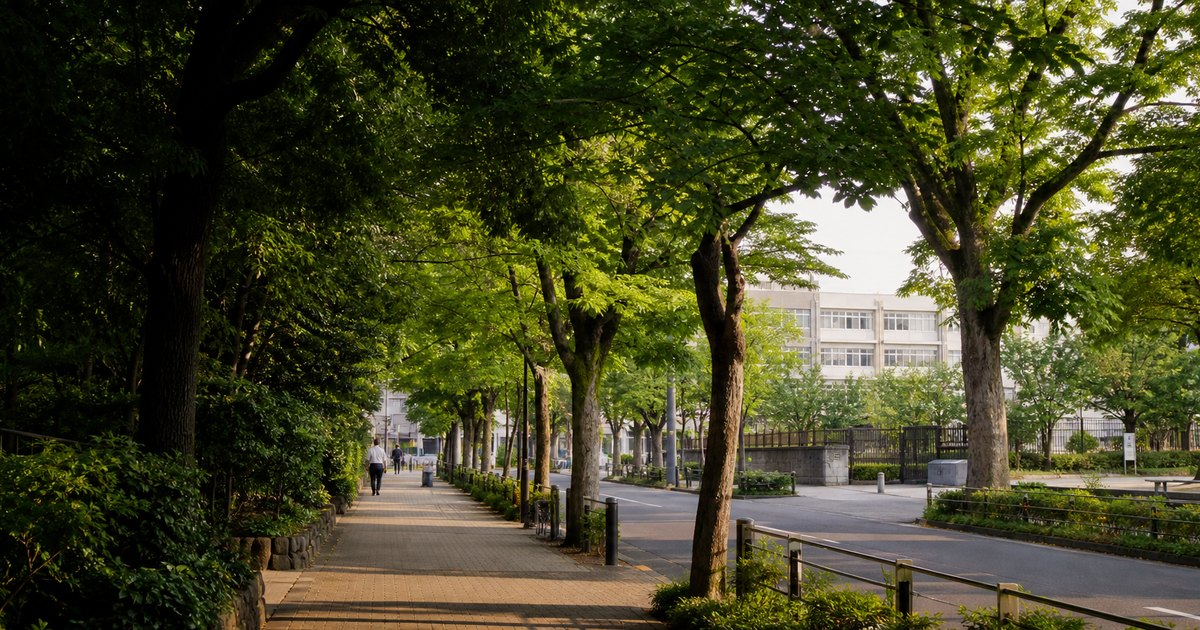
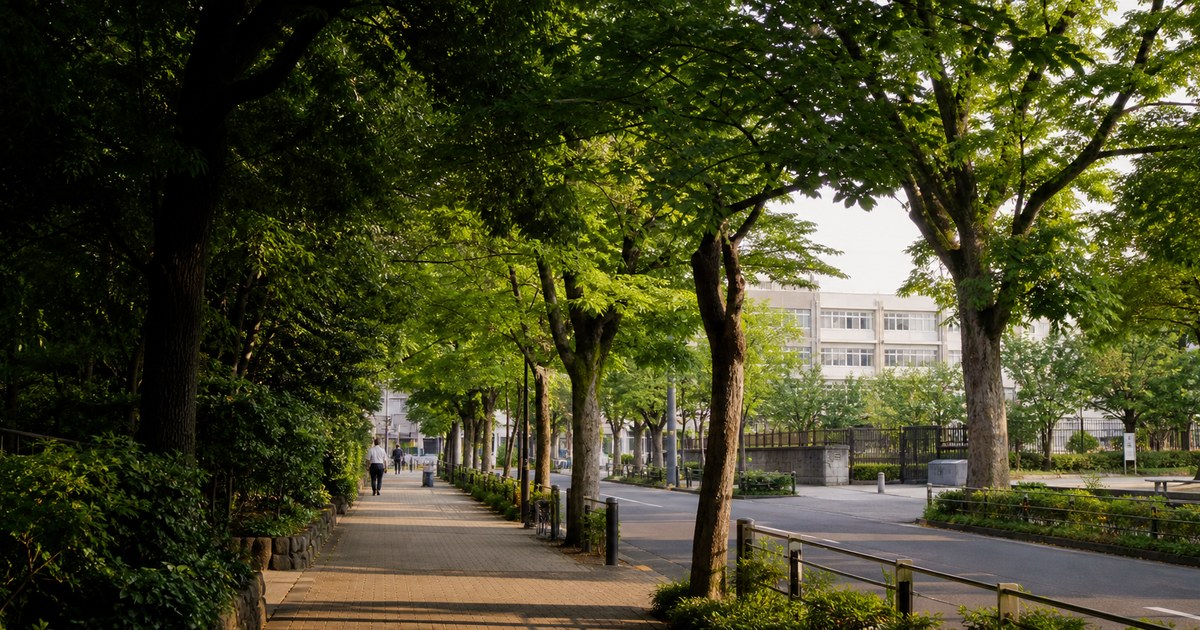
note2: HTMLize scale figure, fix per-tree canopy assumption, enlarge calc text, refresh OGP
- fig2_scale.png をレスポンシブHTMLに置換(item1: 文字拡大)
- 1本あたり樹冠100㎡は大径木専用値と判明→新規植栽には不適。第3回と整合する現実値(50〜100㎡、若木10〜30㎡)で本数を約3万本〜と訂正し、費用便益上の指摘(面積ベースでは26ha B/Cは不変だが本数×単価での費用検算が必要)を追記(item2)
- .calc/.fline のフォントを15px前後に拡大(item3)
- OGPカード画像を樹冠アーチが入る全高クロップで再生成(item4)

diff --git a/suginami-canopy-2/index.html b/suginami-canopy-2/index.html
@@ -88,9 +88,9 @@
   .mk{display:inline-block; width:1.5em; text-align:center; font-weight:700;}
   .mk-in{color:#2e7d4f;} .mk-part{color:#5676aa;} .mk-kpi{color:#8a8f8b;} .mk-ex{color:#be4834;}
   @media (max-width:600px){ .scope .cols{grid-template-columns:1fr;} }
-  .calc{background:#f4f7fb; border:1px solid #d8e2ef; border-left:4px solid #5676aa; border-radius:8px; padding:10px 14px; margin:.8em 0; font-size:13.5px; color:#2a3b55;}
+  .calc{background:#f4f7fb; border:1px solid #d8e2ef; border-left:4px solid #5676aa; border-radius:8px; padding:12px 16px; margin:.9em 0; font-size:15px; color:#2a3b55; line-height:1.8;}
   .calc b{color:#1f3a63;}
-  .calc .f{font-family:"SFMono-Regular",Consolas,"Courier New",monospace; background:#fff; border:1px solid #dbe3ee; border-radius:6px; padding:2px 7px; display:inline-block; margin:2px 0; font-size:13px; color:#143; white-space:nowrap;}
+  .calc .f{font-family:"SFMono-Regular",Consolas,"Courier New",monospace; background:#fff; border:1px solid #dbe3ee; border-radius:6px; padding:2px 7px; display:inline-block; margin:2px 0; font-size:14px; color:#143; white-space:nowrap;}
   .prem{border:1px solid var(--line); border-radius:12px; background:#fafbfa; padding:16px 18px; margin:1.3em 0;}
   .prem .ptitle{font-weight:700; color:var(--green-d); font-size:17px; margin:0 0 .2em;}
   .prem .psub{color:var(--sub); font-size:13px; margin:0 0 .9em;}
@@ -127,7 +127,25 @@
   .cba .sum{margin-top:13px; background:#eef4f0; border:1px solid #cfe3d6; border-radius:10px; padding:12px 15px; font-size:14.5px; color:#214; line-height:1.7; text-align:center;}
   @media (max-width:600px){ .cba .steps{grid-template-columns:1fr; gap:9px;} }
   /* 計算式を1行で独立表示（重なり防止） */
-  .fline{display:block; font-family:"SFMono-Regular",Consolas,"Courier New",monospace; background:#fff; border:1px solid #dbe3ee; border-radius:6px; padding:7px 11px; margin:.5em 0 0; font-size:13.5px; color:#143; line-height:1.5; overflow-x:auto; white-space:nowrap;}
+  .fline{display:block; font-family:"SFMono-Regular",Consolas,"Courier New",monospace; background:#fff; border:1px solid #dbe3ee; border-radius:6px; padding:8px 12px; margin:.5em 0; font-size:14.5px; color:#143; line-height:1.6; overflow-x:auto; white-space:nowrap;}
+  /* 規模比較（旧 fig2_scale をHTML化） */
+  .scale{margin:1.1em 0;}
+  .scale .stt{font-weight:700; color:var(--green-d); font-size:18px; margin:0;}
+  .scale .sts{color:var(--sub); font-size:13.5px; margin:.25em 0 1em;}
+  .scale .pair{display:grid; grid-template-columns:1fr auto 1fr; gap:12px; align-items:center;}
+  .scale .pane{background:#fff; border:1px solid var(--line); border-radius:12px; padding:14px 15px;}
+  .scale .pane.b{background:#f3f8f4; border-color:#cfe3d6;}
+  .scale .pane h4{margin:0 0 .1em; font-size:16px; color:var(--green-d);}
+  .scale .pane .note{color:var(--sub); font-size:12.5px; margin:0 0 .7em;}
+  .scale .row{display:flex; justify-content:space-between; gap:8px; font-size:14.5px; padding:5px 0; border-top:1px dashed #e3e8e1; line-height:1.5;}
+  .scale .row:first-of-type{border-top:0;}
+  .scale .row .lab{color:var(--sub);} .scale .row .val{font-weight:700; color:var(--ink); text-align:right;}
+  .scale .x{background:#d39a2e; color:#fff; font-weight:800; font-size:18px; width:46px; height:46px; border-radius:999px; display:flex; align-items:center; justify-content:center;}
+  .scale .snote{font-size:12.5px; color:var(--sub); margin:.9em 0 0; line-height:1.7;}
+  @media (max-width:600px){
+    .scale .pair{grid-template-columns:1fr; gap:8px;}
+    .scale .x{width:auto; height:34px; border-radius:999px; margin:0 auto; padding:0 16px;}
+  }
   table{border-collapse:collapse; width:100%; margin:1em 0; font-size:14px;}
   th,td{border:1px solid var(--line); padding:7px 9px; text-align:left;}
   th{background:var(--accent);}
@@ -258,8 +276,33 @@
 
     <h3>もし増田氏の「樹冠15%」で測り直すと？</h3>
     <p>今回の26haは「緑被率25%」基準。増田氏が掲げる<strong>樹冠15%</strong>（現状10.4%。第1回のとおり世界の主要都市は30〜40%目標で、15%はその控えめな“第一歩”）を直接の目標にすると、区全体で<strong>+4.6pt＝約157haの樹冠</strong>が必要（第1回試算）＝26haの<strong>約6倍</strong>。研究者の1haあたりの数字を<strong>単純に当てはめて計算すると</strong>こうなります。</p>
-    <img src="fig2_scale.png" alt="緑被率25%基準(26ha・費用2.79〜4.76億・便益11.55億)と樹冠15%基準(157ha・費用17〜29億・便益70億・約6倍)の比較">
-    <p>ただし「6倍すれば済む」という単純な話ではありません。便益の96.7%は雨水便益1本に依存しており、その金額は<strong>1か所の事例をもとにした単純な計算構造</strong>です。<strong>実際に政策を実行に移すには、グレーインフラ（既存の下水道・調節池）の実態などを考慮し、費用と便益をより正確に計測し直す必要があります。</strong>規模を6倍にすれば、この計測の必要性はいっそう大きくなります。植える木の本数も、157haを<strong>研究者が用いた「成木1本あたり樹冠 約100㎡」の仮定</strong>（<a href="researcher/social_cba_benefits.md" target="_blank" rel="noopener">研究者の便益分析メモ「8. 既存大径木保全の便益」</a>）で割ると <span class="f">約1.6万本</span> 規模。密集市街地でこれだけの用地と管理を確保する難度は、26haの場合より<strong>格段に高く</strong>なります。</p>
+    <div class="scale">
+      <p class="stt">もし「樹冠15%（増田氏の目標）」で測り直すと？ ―― 規模は約6倍</p>
+      <p class="sts">第2回の“1haあたりの数字”を単純に当てはめた、ごく粗い比較です</p>
+      <div class="pair">
+        <div class="pane">
+          <h4>緑被率25%が基準</h4>
+          <p class="note">研究者の26ha</p>
+          <div class="row"><span class="lab">必要な樹冠</span><span class="val">約26ha</span></div>
+          <div class="row"><span class="lab">費用</span><span class="val">約2.79〜4.76億円</span></div>
+          <div class="row"><span class="lab">便益</span><span class="val">約11.55億円</span></div>
+          <div class="row"><span class="lab">費用1あたりの便益</span><span class="val">約2.4〜4.1倍</span></div>
+        </div>
+        <div class="x">×6</div>
+        <div class="pane b">
+          <h4>樹冠15%が基準</h4>
+          <p class="note">増田氏の目標・約6倍</p>
+          <div class="row"><span class="lab">必要な樹冠</span><span class="val">約157ha</span></div>
+          <div class="row"><span class="lab">費用</span><span class="val">約17〜29億円</span></div>
+          <div class="row"><span class="lab">便益</span><span class="val">約70億円</span></div>
+          <div class="row"><span class="lab">費用1あたりの便益</span><span class="val">約2.4〜4.1倍</span></div>
+        </div>
+      </div>
+      <p class="snote">※費用1あたりの便益（B/C）は単純計算では同じですが、便益の大半を占める雨水分の不確実さは規模を上げても残ります。</p>
+    </div>
+    <p>ただし「6倍すれば済む」という単純な話ではありません。便益の96.7%は雨水便益1本に依存しており、その金額は<strong>1か所の事例をもとにした単純な計算構造</strong>です。<strong>実際に政策を実行に移すには、グレーインフラ（既存の下水道・調節池）の実態などを考慮し、費用と便益をより正確に計測し直す必要があります。</strong>規模を6倍にすれば、この計測の必要性はいっそう大きくなります。</p>
+    <div class="calc"><b>補足：「1本あたりの樹冠」をどう見るか</b>　研究者の資料に出てくる「1本＝約100㎡」は、<strong>直径90cm級の巨木（大径木）を守る効果を測るための数値</strong>（<a href="researcher/social_cba_benefits.md" target="_blank" rel="noopener">便益メモ「8. 既存大径木保全」</a>）で、これから新しく植える木の標準ではありません。一般に、よく育った街路樹で<strong>1本あたり樹冠50〜100㎡</strong>（枝葉の差し渡し8〜11m）、若木や中木が中心ならもっと小さく<strong>10〜30㎡</strong>程度です。そこで157haを現実的な平均で割り直すと――<span class="fline">157ha ÷ 100㎡ ＝ 約1.6万本　／　÷ 50㎡ ＝ 約3.1万本　／　÷ 20㎡ ＝ 約7.8万本</span>つまり巨木前提なら約1.6万本ですが、<strong>現実的には約3万本〜、若木中心なら数万本以上</strong>になります（第3回でも同じ枠組みで検証）。密集市街地でこれだけの本数の用地と管理を確保する難度は、26haの場合より<strong>格段に高く</strong>なります。</div>
+    <div class="calc"><b>費用便益のチェックとしては</b>　研究者の26ha試算は費用を<strong>「面積あたり」で積んでいる</strong>ため、1本あたり樹冠の大小は26haのB/Cを直接は動かしません。ただし<strong>本数ベースで植栽・維持費を見積もり直すと、1本を小さく（＝本数を多く）見るほど費用は増えます</strong>。実装前には、現実的な樹種・植栽密度で1本あたり費用を置き、本数×単価でも費用を検算しておくべきです（巨木前提のままだと本数＝費用を小さく見積もりやすい）。</div>
 
     <h2>1. まず、研究者の「最終成果物」を見る</h2>
     <p>このブログのいちばん上に置いてあるのが、<strong>研究者本人による調査結果</strong>（図解版ページ）です。その要約スライドには、次の内容がまとまっています。</p>